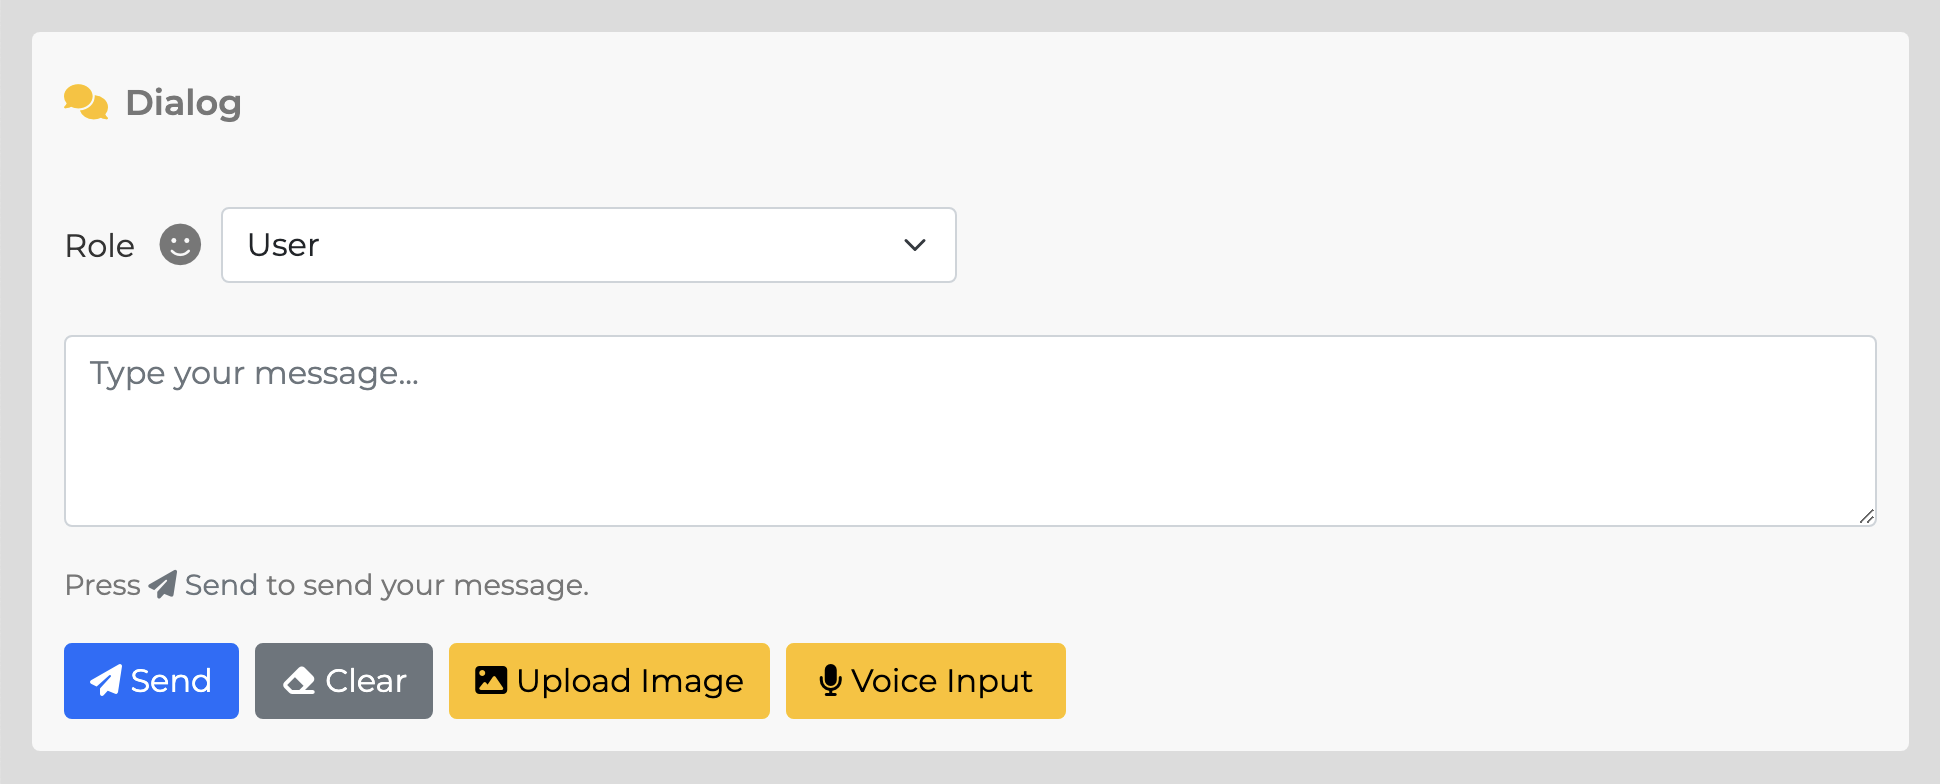
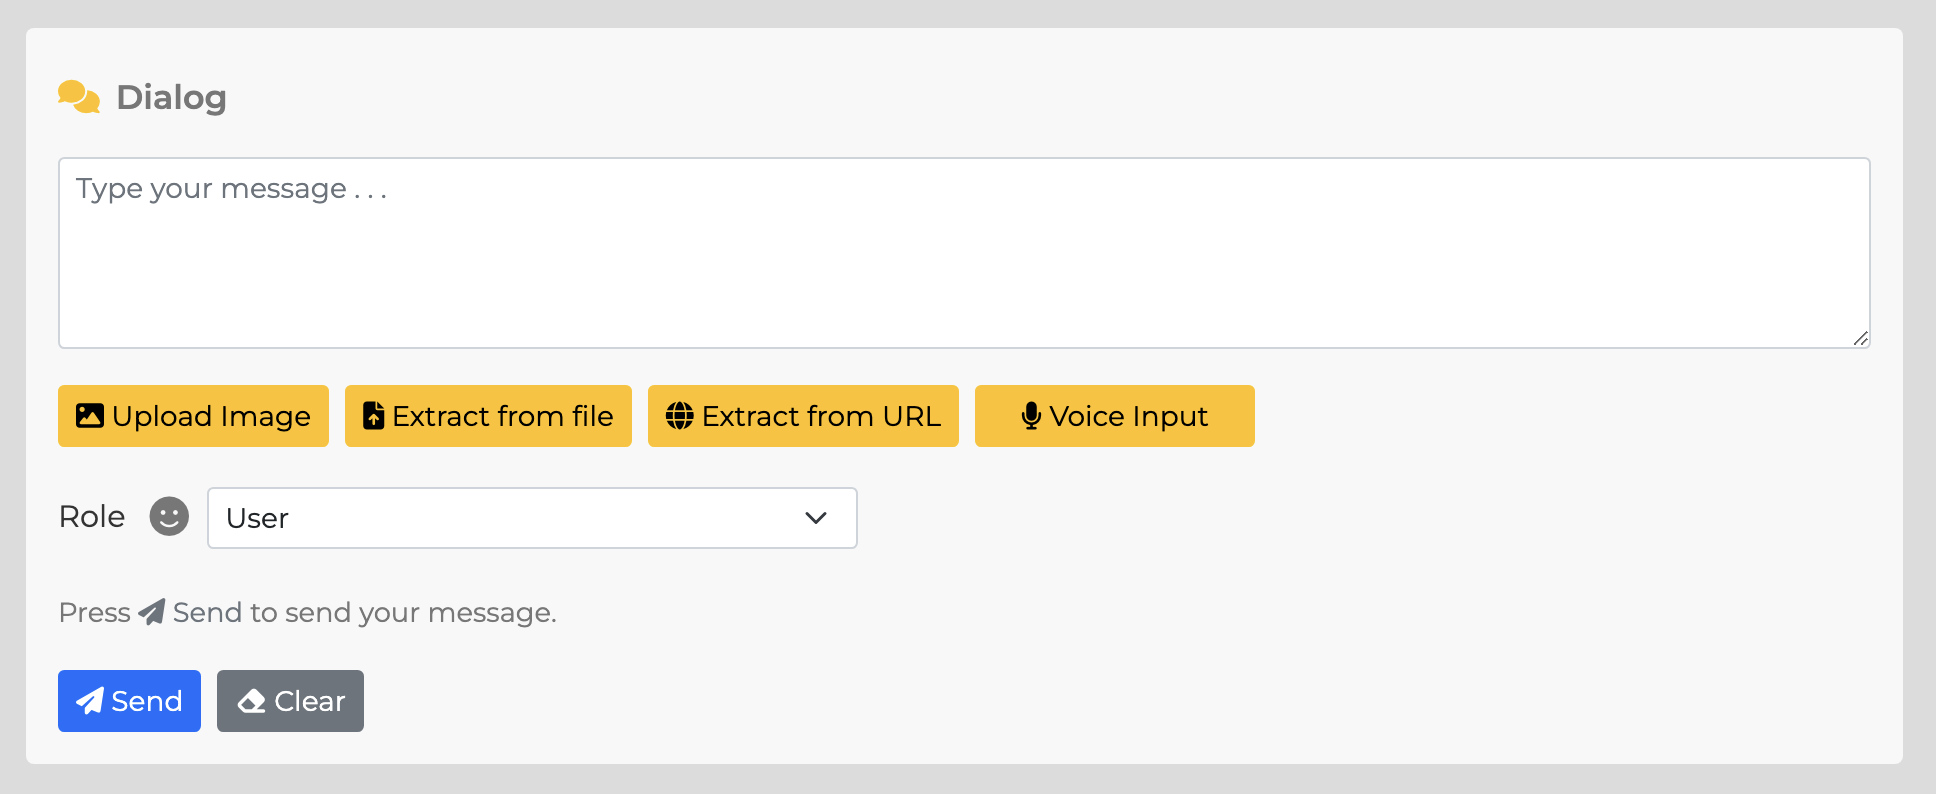
Documentation updated

diff --git a/docker/services/ruby/lib/monadic.rb b/docker/services/ruby/lib/monadic.rb
@@ -25,6 +25,7 @@ require "securerandom"
 require "strscan"
 require "tempfile"
 require "uri"
+require "cgi"
 
 require "oj"
 Oj.mimic_JSON
@@ -464,7 +465,7 @@ end
 post "/fetch_webpage" do
   if params["pageURL"]
     url = params["pageURL"]
-    url_decoded = URI.decode(url)
+    url_decoded = CGI.unescape(url)
     label = params["urlLabel"].encode("UTF-8", invalid: :replace, undef: :replace, replace: "")
 
     user_data_dir = if IN_CONTAINER

diff --git a/docker/services/ruby/apps/talk_to_claude/chat_claude_app.rb b/docker/services/ruby/apps/talk_to_claude/chat_claude_app.rb
@@ -1,4 +1,4 @@
-frozen_string_literal: true
+# frozen_string_literal: true
 
 class ChatClaude < MonadicApp
   include ClaudeHelper

diff --git a/docs/message-input.md b/docs/message-input.md
@@ -10,7 +10,7 @@ Enter a message in the text area and click the `Send` button to send the message
 
 ?> The `Role` selector is used to select the role of the message. Normally, select `User`, but by selecting `Assistant` or `System`, you can add or modify the context of the chat. For more information, see the [FAQ](./faq-user-interface).
 
-# Uploading Images
+## Uploading Images
 
 Uploading images is supported for the following models:
 
@@ -27,7 +27,7 @@ After uploading the image, image recognition is performed, and the AI agent prov
 
 ![](./assets/images/monadic-chat-message-with-pics.png ':size=700')
 
-# Uploading PDFs
+## Uploading PDFs
 
 In Anthropic's Sonnet model, PDF uploads are supported in addition to images. Click `Upload Image/PDF` to select a PDF file to attach to the message.
 
@@ -38,3 +38,25 @@ As with images, when you upload a PDF file, the contents of the PDF are recogniz
 ![](./assets/images/monadic-chat-chat-about-pdf.png ':size=700')
 
 To continue the conversation about the contents of the PDF in the chat, you need to upload the same PDF file with each message input. Once you upload a PDF during a session, Monadic Chat will send that PDF to the AI agent with each message until the session ends. If you have enabled `Prompt Caching` in the web settings, prompts for the same PDF will be cached, saving on API usage. To end the conversation about the PDF, click the delete `×` button to clear the PDF.
+
+## Reading Text from Document Files
+
+Click the `Extract from file` button to select a document file. The contents of the selected file are loaded into the text area. Supported file formats include PDF, Word files (`.docx`), Excel files (`.xlsx`), PowerPoint files (`.pptx`), and various text files (`.txt`, `.md`, `.html`, etc).
+
+![](./assets/images/monadic-chat-extract-from-file.png ':size=400')
+
+## Reading Text from URLs
+
+Click the `Extract from URL` button to enter a URL. The content at that URL is loaded into the text area in Markdown format.
+
+![](./assets/images/monadic-chat-extract-from-url.png ':size=400')
+
+## Voice Input
+
+To use voice input, click the `Voice Input` button to start voice input, and click the `Stop` button to end voice input. After voice input ends, the voice is converted to text via the Whisper API and displayed in the text area.
+
+![](./assets/images/voice-input-stop.png ':size=400')
+
+After voice input, a `p-value` indicating the confidence of the voice input is displayed. The `p-value` is an indicator of the confidence of the voice input, expressed in the range from 0 to 1. The closer the `p-value` is to 1, the higher the confidence of the voice input.
+
+![](./assets/images/voice-p-value.png ':size=400')

diff --git a/docs/ja/message-input.md b/docs/ja/message-input.md
@@ -38,3 +38,25 @@ Anthropic の Sonnet モデルでは、画像の他に PDF のアップロード
 ![](./assets/images/monadic-chat-chat-about-pdf.png ':size=700')
 
 チャットの中で継続してPDFの内容についてのやり取りを行うためには、毎回のメッセージ入力で同じ PDF をアップロードする必要があります。セッション中にある PDF を一度アップロードすると、Monadic Chat はセッション終了までの間、毎回、AI エージェントにその PDF を送信します。その際、Web 設定画面で `Prompt Caching` を有効にしている場合、同じ PDF に対するプロンプトがキャッシュされ、API の使用量を節約することができます。その PDF についてのやり取りを終了する場合は、削除 `×` ボタンをクリックして、PDF をクリアします。
+
+## 文書ファイルからのテキスト読み込み
+
+`Extract from file` ボタンをクリックすると、文書ファイルを選択するダイアログが表示されます。選択したファイルの内容がテキストエリアに読み込まれます。読み込みが可能なファイル形式はPDF、Wordファイル（`.docx`）、Excelファイル（.`xlsx`）、PowerPointファイル（`.pptx`）、さまざまなテキストファイル（`.txt`, `.md`, `.html`, etc）です。
+
+![](./assets/images/monadic-chat-extract-from-file.png ':size=400')
+
+## URL からのテキスト読み込み
+
+`Extract from URL` ボタンをクリックすると、URL を入力するダイアログが表示されます。URL を入力すると、その URL にあるコンテンツが可能な範囲で読み出され、Markdown形式でテキストエリアに読み込まれます。
+
+![](./assets/images/monadic-chat-extract-from-url.png ':size=400')
+
+## 音声入力
+
+音声入力を行う場合は、`Voice Input` ボタンをクリックして音声入力を開始し、`Stop` ボタンをクリックして音声入力を終了します。音声入力が終了すると、Whisper API を通じて音声がテキストに変換され、テキストエリアに表示されます。
+
+![](./assets/images/voice-input-stop.png ':size=400')
+
+音声入力後には、音声入力の信頼度を示す `p-value` が表示されます。`p-value` は音声入力の信頼度を示す指標で、0 から 1 の範囲で表されます。`p-value` が 1 に近いほど、音声入力の信頼度が高いことを示します。
+
+![](./assets/images/voice-p-value.png ':size=400')
